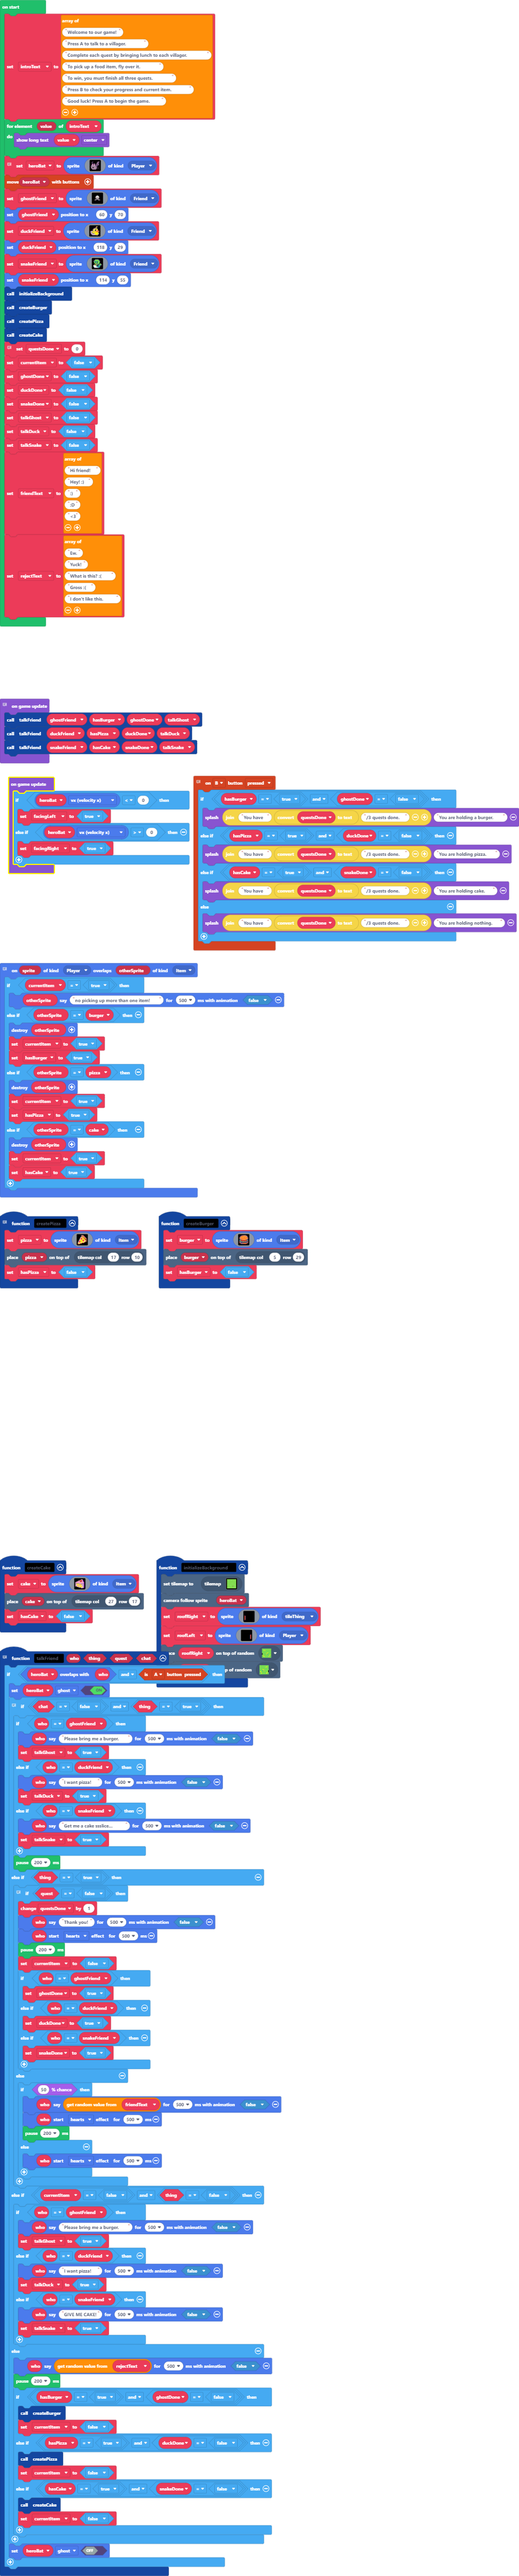
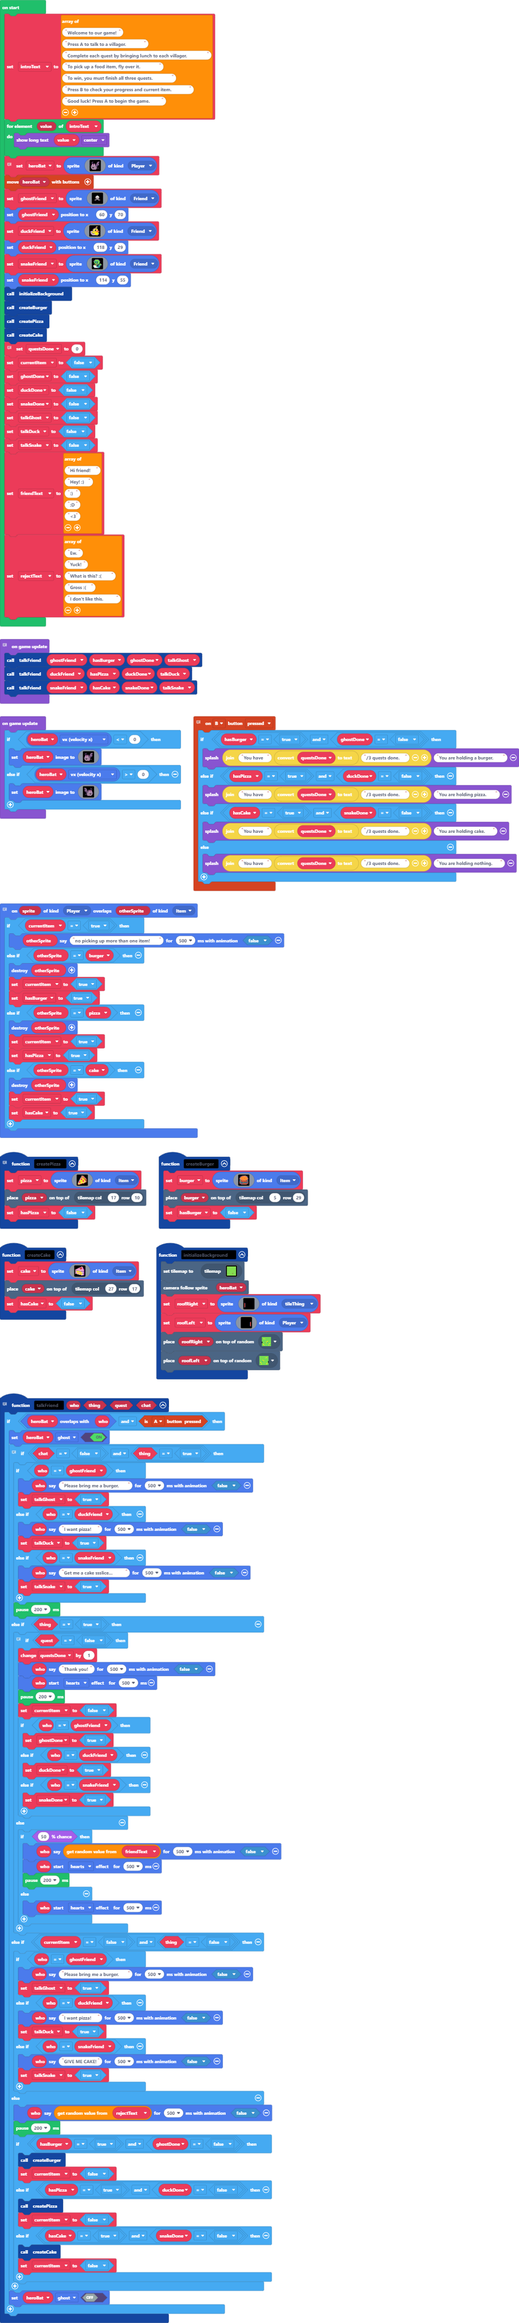
Update main.blocks, main.ts, tilemap.g.jres, tilemap.g.ts

Changed region(s): [[0.0, 0.0, 1.0, 1.0]]

diff --git a/main.ts b/main.ts
@@ -215,8 +215,6 @@ function talkFriend (who: Sprite, thing: boolean, quest: boolean, chat: boolean)
         heroBat.setFlag(SpriteFlag.Ghost, false)
     }
 }
-let facingRight = false
-let facingLeft = false
 let roofLeft: Sprite = null
 let roofRight: Sprite = null
 let hasCake = false
@@ -371,8 +369,42 @@ game.onUpdate(function () {
 })
 game.onUpdate(function () {
     if (heroBat.vx < 0) {
-        facingLeft = true
+        heroBat.setImage(img`
+            . . f f f . . . . . . . . f f f 
+            . f f c c . . . . . . f c b b c 
+            f f c c . . . . . . f c b b c . 
+            f c f c . . . . . . f b c c c . 
+            f f f c c . c c . f c b b c c . 
+            f f c 3 c c 3 c c f b c b b c . 
+            f f b 3 b c 3 b c f b c c b c . 
+            . c b b b b b b c b b c c c . . 
+            . c 1 b b b 1 b b c c c c . . . 
+            c b b b b b b b b b c c . . . . 
+            c b c b b b c b b b b f . . . . 
+            f b 1 f f f 1 b b b b f c . . . 
+            f b b b b b b b b b b f c c . . 
+            . f b b b b b b b b c f . . . . 
+            . . f b b b b b b c f . . . . . 
+            . . . f f f f f f f . . . . . . 
+            `)
     } else if (heroBat.vx > 0) {
-        facingRight = true
+        heroBat.setImage(img`
+            f f f . . . . . . . . f f f . . 
+            c b b c f . . . . . . c c f f . 
+            . c b b c f . . . . . . c c f f 
+            . c c c b f . . . . . . c f c f 
+            . c c b b c f . c c . c c f f f 
+            . c b b c b f c c 3 c c 3 c f f 
+            . c b c c b f c b 3 c b 3 b f f 
+            . . c c c b b c b b b b b b c . 
+            . . . c c c c b b 1 b b b 1 c . 
+            . . . . c c b b b b b b b b b c 
+            . . . . f b b b b c b b b c b c 
+            . . . c f b b b b 1 f f f 1 b f 
+            . . c c f b b b b b b b b b b f 
+            . . . . f c b b b b b b b b f . 
+            . . . . . f c b b b b b b f . . 
+            . . . . . . f f f f f f f . . . 
+            `)
     }
 })

diff --git a/tilemap.g.ts b/tilemap.g.ts
@@ -104,6 +104,25 @@ namespace myTiles {
 ................................
 ................................
 `, [myTiles.transparency16,sprites.castle.tileGrass3,myTiles.tile1,myTiles.tile7,myTiles.tile8,sprites.castle.tileGrass1,sprites.castle.tileGrass2,myTiles.tile2,myTiles.tile9,myTiles.tile12,myTiles.tile13,myTiles.tile14,myTiles.tile15,myTiles.tile5,myTiles.tile6], TileScale.Sixteen);
+            case "level4":
+            case "level4":return tiles.createTilemap(hex`1000100000000000000000000000000000000000000000000000000000000000000000000000000000000000000000000000000000000000000000000000000000000000000000000000000000000000000000000000000000000000000000000000000000000000000000000000000000000000000000000000000000000000000000000000000000000000000000000000000000000000000000000000000000000000000000000000000000000000000000000000000000000000000000000000000000000000000000000000000000000000000000000000000000000000000000000000000000000000000000000000000000000000000000000000000000000000`, img`
+. . . . . . . . . . . . . . . . 
+. . . . . . . . . . . . . . . . 
+. . . . . . . . . . . . . . . . 
+. . . . . . . . . . . . . . . . 
+. . . . . . . . . . . . . . . . 
+. . . . . . . . . . . . . . . . 
+. . . . . . . . . . . . . . . . 
+. . . . . . . . . . . . . . . . 
+. . . . . . . . . . . . . . . . 
+. . . . . . . . . . . . . . . . 
+. . . . . . . . . . . . . . . . 
+. . . . . . . . . . . . . . . . 
+. . . . . . . . . . . . . . . . 
+. . . . . . . . . . . . . . . . 
+. . . . . . . . . . . . . . . . 
+. . . . . . . . . . . . . . . . 
+`, [myTiles.transparency16], TileScale.Sixteen);
         }
         return null;
     })
